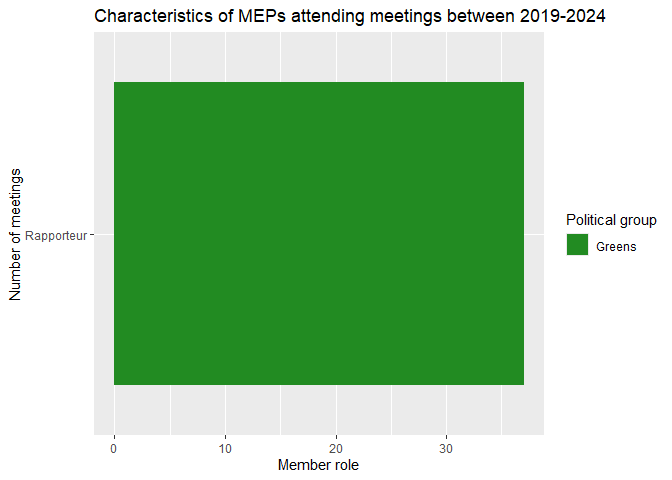
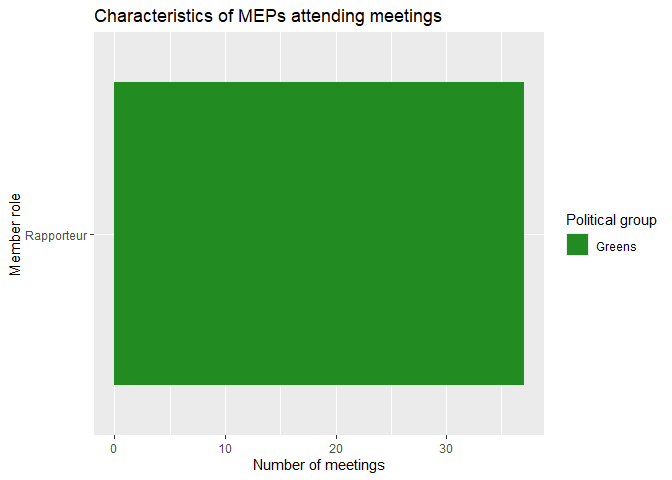
reorder plots

Changed region(s): [[0.6562, 0.0, 0.9062, 0.0625], [0.375, 0.9375, 0.5625, 1.0], [0.0, 0.3438, 0.0312, 0.625]]

diff --git a/courses/SSCPOLI302/workshop2.md b/courses/SSCPOLI302/workshop2.md
@@ -121,9 +121,9 @@ meetings |>
   ggplot() +
   geom_col(aes(x = n, y = member_capacity, fill = political_group)) +
   scale_fill_manual(values = colors) +
-  labs(title = "Characteristics of MEPs attending meetings between 2019-2024", 
-       x = "Member role", 
-       y = "Number of meetings",
+  labs(title = "Characteristics of MEPs attending meetings", 
+       y = "Member role", 
+       x = "Number of meetings",
        fill = "Political group")
 ```
 
@@ -137,14 +137,17 @@ add both nationalities and member roles to a bar chart.
 meetings |> 
   count(country, member_capacity, sort = TRUE) |> 
   ggplot() +
-  geom_col(aes(x = n, y = country, fill = member_capacity)) +
-  labs(title = "Nationalities of MEPs attending meetings between 2019-2024", 
-       x = "Country", 
-       y = "Number of meetings",
+  geom_col(aes(x = n, y = reorder(country, n), fill = member_capacity)) +
+  labs(title = "Nationalities of MEPs attending meetings", 
+       y = "Country", 
+       x = "Number of meetings",
        fill = "Member role")
 ```
 
 ![](workshop2_files/figure-gfm/unnamed-chunk-3-1.png)<!-- -->
+
+These plots will be more interesting if you look at a dossier for which
+more than one MEP declared meetings.
 
 ## Attendee characteristics
 
@@ -159,10 +162,10 @@ each attended.
 meetings |> 
   count(fixed_names, sort = TRUE) |> 
   ggplot() +
-  geom_col(aes(x = n, y = fixed_names)) +
-  labs(title = "Number of meetings per attendee between 2019-2024", 
-       x = "Attendee", 
-       y = "Number of meetings")
+  geom_col(aes(x = n, y = reorder(fixed_names, n))) +
+  labs(title = "Number of meetings per attendee", 
+       y = "Attendee", 
+       x = "Number of meetings")
 ```
 
 ![](workshop2_files/figure-gfm/unnamed-chunk-4-1.png)<!-- -->
@@ -175,10 +178,10 @@ also look at the distribution of these categories.
 meetings |> 
   count(class, structure, sort = TRUE) |> 
   ggplot() +
-  geom_col(aes(x = n, y = class, fill = structure)) +
+  geom_col(aes(x = n, y = reorder(class, n), fill = structure)) +
   labs(title = "Distribution of attendees by class and structure", 
-       x = "Class", 
-       y = "Number of attendees",
+       y = "Class", 
+       x = "Number of attendees",
        fill = "Structure")
 ```
 
